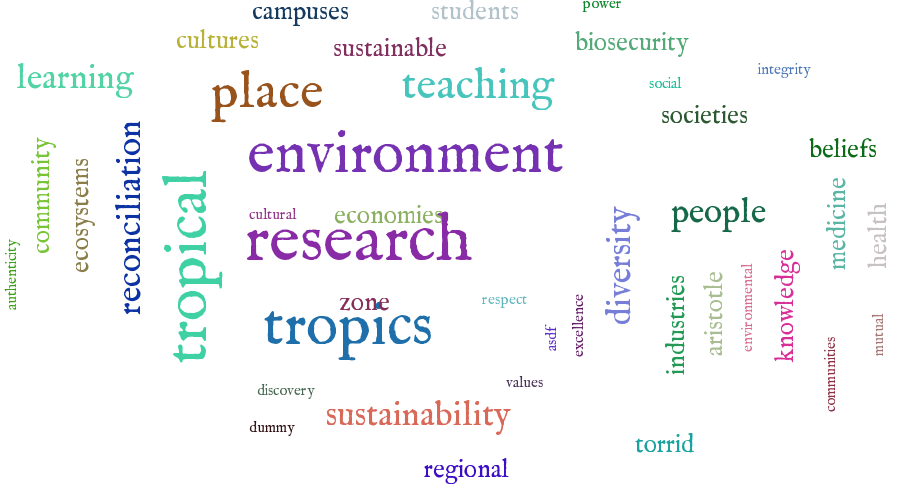
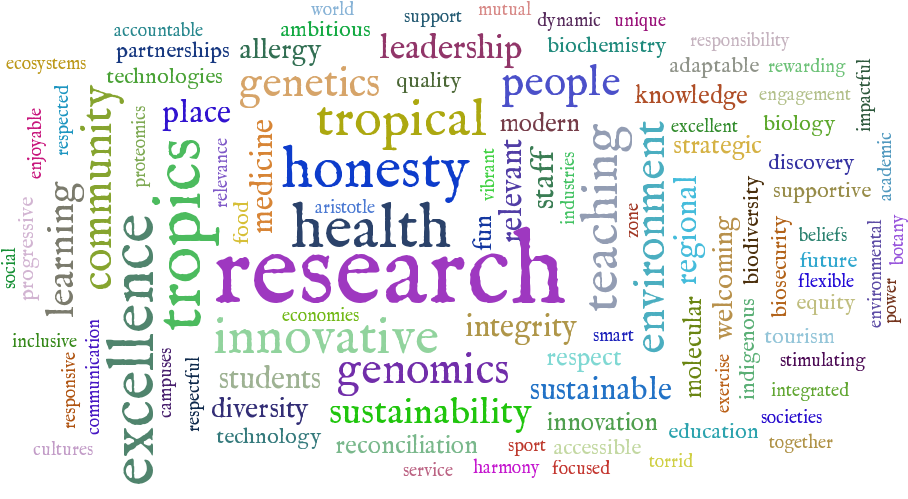
Adding changeable settings for min/max sizes for tags

Changed region(s): [[0.0, 0.0, 1.0, 0.9619]]

diff --git a/jcuwords/views.py b/jcuwords/views.py
@@ -68,6 +68,8 @@ class CloudMaker(object):
         self.context = context
         self.request = request
         self.resolver = AssetResolver()
+        self.minsize = int(request.registry.settings['jcu.words.minsize'])
+        self.maxsize = int(request.registry.settings['jcu.words.maxsize'])
 
     @view_config(name="keyword-cloud.png")
     def keyword_cloud_png(self):
@@ -98,9 +100,9 @@ class CloudMaker(object):
             max_size = 42
         else:
             max_tags = 100
-            max_size = 60
+            max_size = self.maxsize
 
-        tags = make_tags(get_tag_counts(text)[:max_tags], minsize=1,
+        tags = make_tags(get_tag_counts(text)[:max_tags], minsize=self.minsize,
                          maxsize=max_size)
 
         if output_html:
